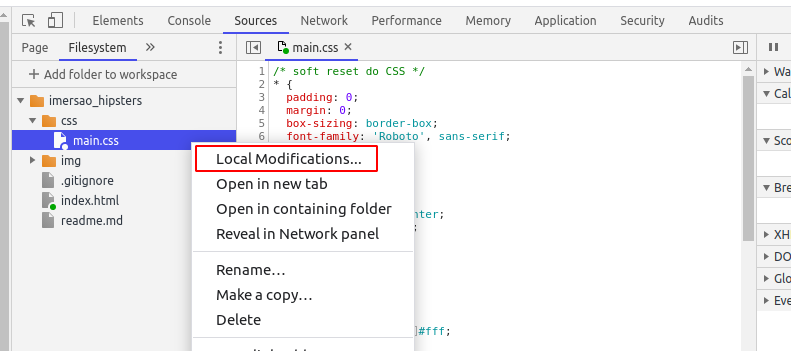
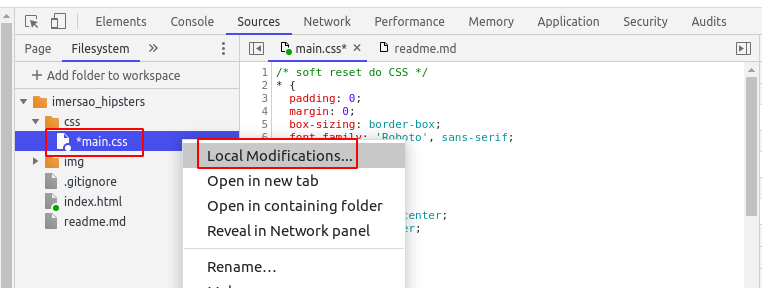
Update Posts “2020-05-13-salvando-alterações-locais-com-o-devtools-do-browser”

Changed region(s): [[0.0, 0.0, 1.0, 1.0]]

diff --git a/posts/2020-05-13-salvando-alterações-locais-com-o-devtools-do-browser.md b/posts/2020-05-13-salvando-alterações-locais-com-o-devtools-do-browser.md
@@ -38,8 +38,14 @@ Esta forma é mais simples é deve ser a mais utilizada pelos desenvolvedores (p
 ![](/assets/img/gasakawa-devtools-chrome-css-change.png)
 
 ## 4. Visualize as alterações
-As alterações são percebidas automaticamente na tela a cada mudança no código, mas é possível visualizar as alterações no código também (como se fosse o git).
+As alterações são percebidas automaticamente na tela a cada mudança no código, mas é possível visualizar as alterações no código também (como se fosse o git). 
 
 ![](/assets/img/gasakawa-devtools-local-modifications.png)
+
+Note que os arquivos alterados ficam com um asterisco (*) do lado, então se clicar na opção _"Local modifications..."_,  habilita uma nova aba chamada _"Changes"_, onde é possível visualizar as alterações feitas em todos os arquivos do workspace.
+
+![](/assets/img/gasakawa-dev-tools-changes.png)
+
+Salve as mudanças com Ctrl + S e pronto as alterações serão refletidas no seu filesystem diretamente.
 
 
